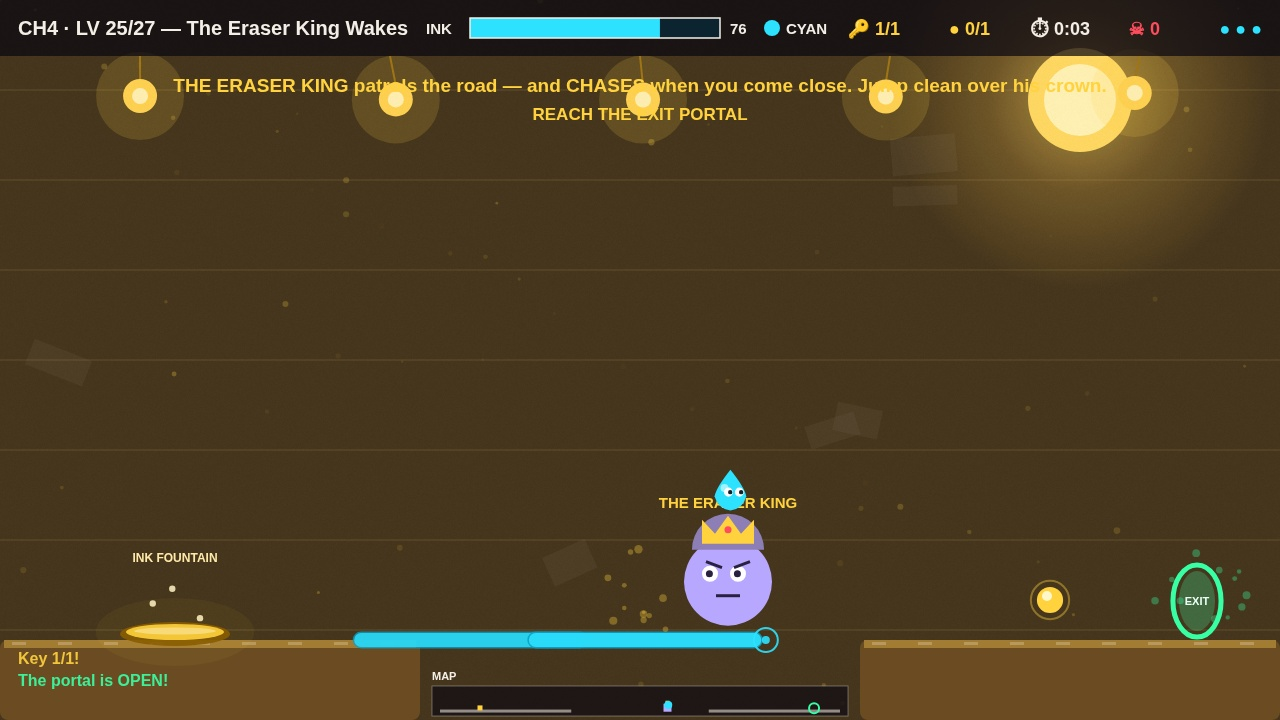
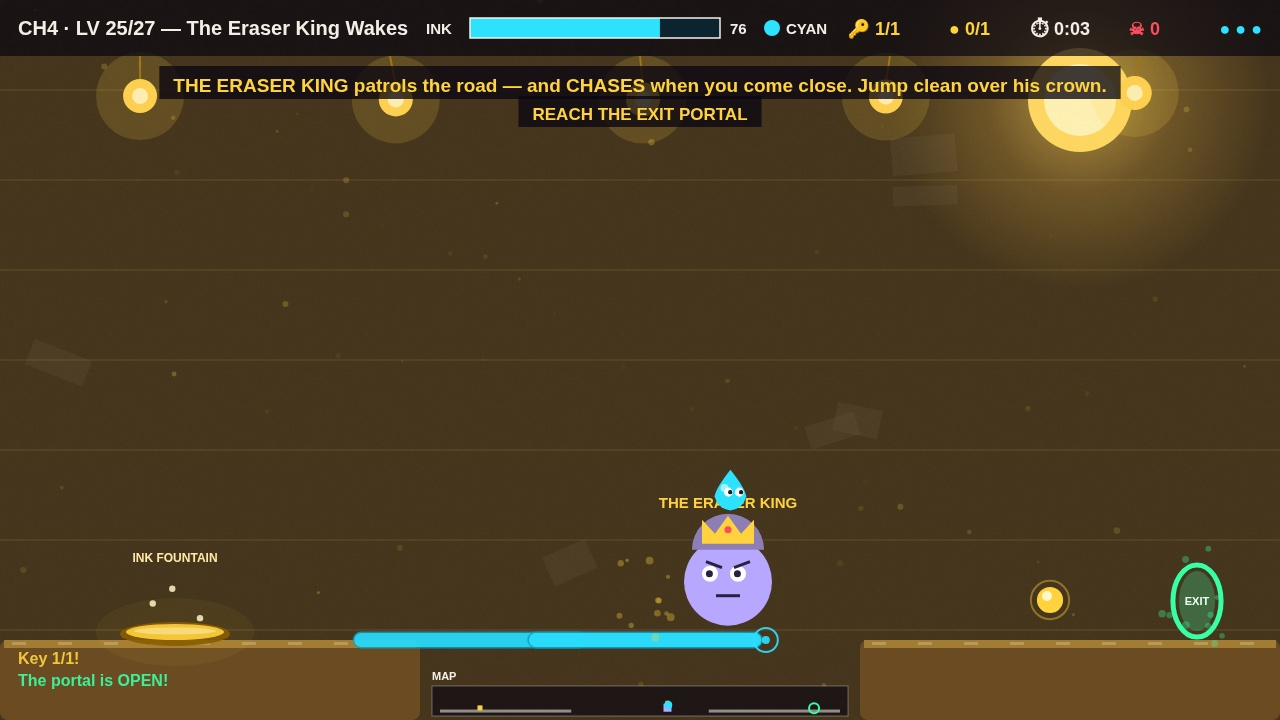
INKLING round 4 fix — HUD text backing plates, mid-river fountain shot (make.fun best-game-01)

diff --git a/game/src/hud.js b/game/src/hud.js
@@ -19,6 +19,25 @@ function title(ctx, text, y, size, color) {
   ctx.fillText(text, VIEW.width / 2, y);
 }
 
+// A dark backing plate behind a centred HUD line, so gold text reads
+// cleanly over ANY backdrop. Chapter 4's hanging lanterns sit exactly on
+// the hint/objective rows (lantern centres y ~96, glow r 44) and their
+// glow used to wash the words out mid-line; the plate is measured from
+// the text itself, so it fits every line and never covers more of the
+// scene than the words need. The scene itself is untouched — no global
+// brightening, so the cyan bridge keeps its colour.
+function backedText(ctx, text, y, size, color) {
+  ctx.font = `bold ${size}px sans-serif`;
+  ctx.textAlign = 'center';
+  const w = ctx.measureText(text).width;
+  const padX = 14;
+  const padY = 7;
+  ctx.fillStyle = 'rgba(10, 7, 18, 0.78)';
+  ctx.fillRect(VIEW.width / 2 - w / 2 - padX, y - size - padY, w + padX * 2, size + padY * 2);
+  ctx.fillStyle = color;
+  ctx.fillText(text, VIEW.width / 2, y);
+}
+
 function line(ctx, text, y, size, color) {
   ctx.fillStyle = color ?? COLORS.textDim;
   ctx.font = `${size}px sans-serif`;
@@ -98,26 +117,18 @@ export class Hud {
           ? (game.level.chapter === 3 ? 'PAINT THE LAST PAGE — ' : 'FIND THE KEYS — ') +
             `${keysLeft} KEY${keysLeft > 1 ? 'S' : ''} LEFT`
           : 'REACH THE EXIT PORTAL';
-      ctx.fillStyle = (game.level.chapter ?? 0) === 3 ? COLORS.yellow : COLORS.paperWhite;
-      ctx.font = 'bold 17px sans-serif';
-      ctx.textAlign = 'center';
-      ctx.fillText(objective, VIEW.width / 2, 120);
+      backedText(ctx, objective, 120, 17, (game.level.chapter ?? 0) === 3 ? COLORS.yellow : COLORS.paperWhite);
     }
     // Event log: the last two things that happened, bottom-left.
     this.drawEventLog(ctx, game);
-    // Hint line for the first seconds of a level.
+    // Hint line for the first seconds of a level — on a backing plate,
+    // so the lantern row never eats the words.
     if (game.levelTime < 6 && game.screen === 'play') {
-      ctx.fillStyle = COLORS.yellow;
-      ctx.font = 'bold 19px sans-serif';
-      ctx.textAlign = 'center';
-      ctx.fillText(game.level.hint, VIEW.width / 2, 92);
+      backedText(ctx, game.level.hint, 92, 19, COLORS.yellow);
     }
     // Low-ink warning.
     if (game.ink < 20 && game.screen === 'play') {
-      ctx.fillStyle = COLORS.danger;
-      ctx.font = 'bold 19px sans-serif';
-      ctx.textAlign = 'center';
-      ctx.fillText('LOW INK — grab an orb!', VIEW.width / 2, 118);
+      backedText(ctx, 'LOW INK — grab an orb!', 118, 19, COLORS.danger);
     }
   }
 

diff --git a/game/src/shots.js b/game/src/shots.js
@@ -517,10 +517,12 @@ function stageActionShot(game) {
 }
 
 /**
- * Shot 2 — level 23, "Paper Boats": Pip riding a paper boat across the
- * river, the ink fountain glowing on the far bank. The driver walks Pip
- * to the edge, waits for the boat to come to him, steps aboard, and
- * holds still mid-river for the frame.
+ * Shot 2 — level 23, "Paper Boats": Pip riding a paper boat MID-RIVER
+ * across the crossing, the ink fountain glowing on the far bank. The
+ * driver walks Pip to the edge, waits for the boat to come to him,
+ * steps aboard, and rides on until the boat's centre is mid-frame
+ * (boat.x ≈ 540) before holding still for the frame — Pip centred and
+ * clear of the minimap strip, not small at the boarding bank.
  */
 function stageFountainShot(game) {
   for (let attempt = 0; attempt < 3; attempt++) {
@@ -537,10 +539,20 @@ function stageFountainShot(game) {
         input.setKey('KeyD', false);
         input.setKey('KeyA', false);
         input.setKey('Space', false);
-        onBoat = true;
-        // Hold still mid-river for a few frames, then take the shot.
-        for (let j = 0; j < 20; j++) game.step(STEP);
-        break;
+        // Ride on: the frame is taken mid-river, not at the boarding
+        // bank. The boat runs x 380–700, so its centre crosses the
+        // middle of the frame (x 640) at boat.x ≈ 540 — Pip standing
+        // there reads centred, clear of the minimap strip, with the
+        // fountain on the far bank in frame. (Round-4 fix: the first
+        // staging shot the frame 20 steps after boarding, boat still
+        // at the left bank — Pip small at the bottom edge, top of the
+        // frame empty brown paper.)
+        if (boat.x >= 520) {
+          onBoat = true;
+          // Hold still for a few frames, then take the shot.
+          for (let j = 0; j < 10; j++) game.step(STEP);
+          break;
+        }
       }
       if (p.x < 320) {
         input.setKey('KeyD', true);
